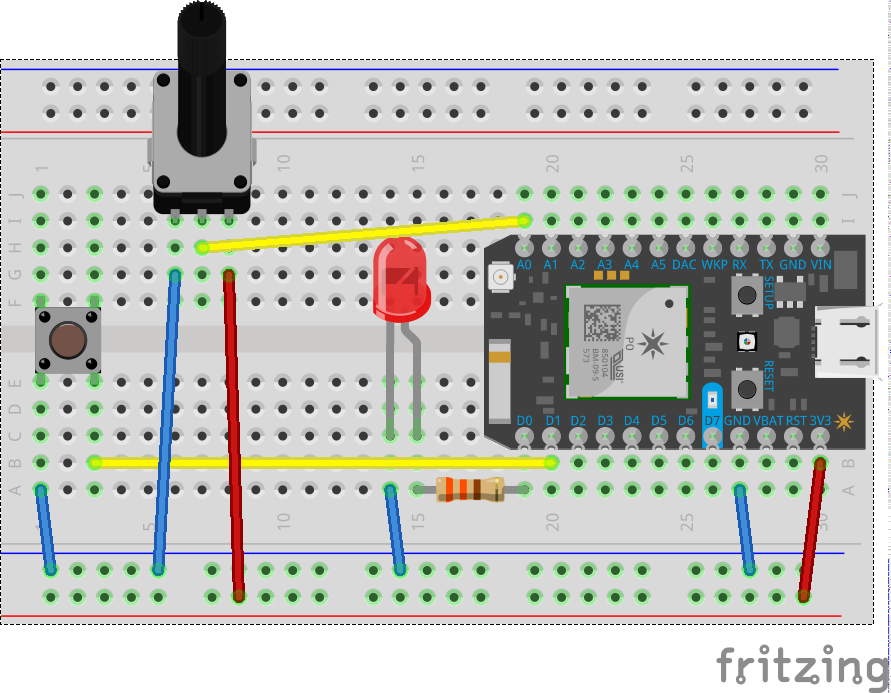
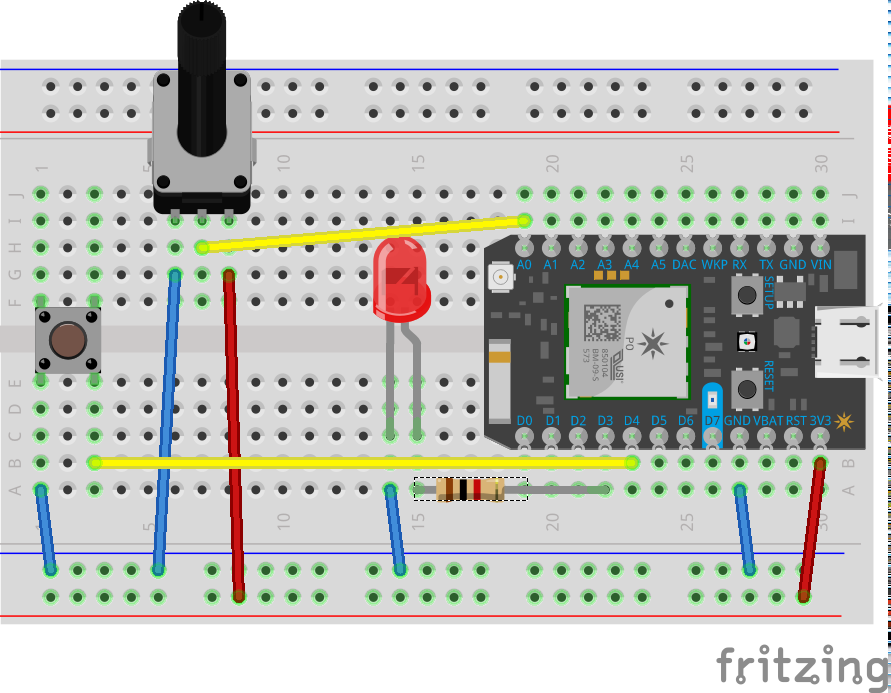
steps 3 and 4

diff --git a/step1/README.md b/step1/README.md
@@ -16,7 +16,7 @@ To make this circuit you need a Particle microcontroller, an LED, a 1KΩ resisto
 Along your Particle device you will see a series of PINs or legs labeled `D0` to `D7`. These are the digitalPins which can be used for input or output. In this case we’ll be using them for output or to turn power on and off to make the LED blink.
 
 First connect a 1K Ohm resistor (brown,black red)
-- One end of the resistor goes to a breadboard terminal directly beside the pin marked D0 
+- One end of the resistor goes to a breadboard terminal directly beside the pin marked D3 
 - The other end can go to any other row on the breadboard. 
 
 Next add an LED with the anode (longer leg) to the same row where the resistor connects. 
@@ -85,7 +85,7 @@ The first line of our program is the following.
 ```int ledPin = D3;```
 We have declared a variable of type `integer` and called it `ledPin`; that means that the variable called ledPin can only hold a whole number.
 
-We’ve also assigned this variable a reference to pin `D0`. Basically, we’ve created a variable we can use to tell other stuff in the program that we want to do things with Digital Pin Zero.
+We’ve also assigned this variable a reference to pin `D3`. Basically, we’ve created a variable we can use to tell other stuff in the program that we want to do things with Digital Pin Zero.
 
 ### Setup `setup()`
 
@@ -96,11 +96,11 @@ The first command in our program does exactly this.
 ````
 void setup() {
   // We want to tell the Photon that we'll use
-  // D0 as an output pin.
+  // D3 as an output pin.
   pinMode(ledPin, OUTPUT);
 }
 ````
-Remember that `ledPin` is a variable that maps to the digital pin zero (`D0`).
+Remember that `ledPin` is a variable that maps to the digital pin zero (`D3`).
 
 ### Digital Write
 
